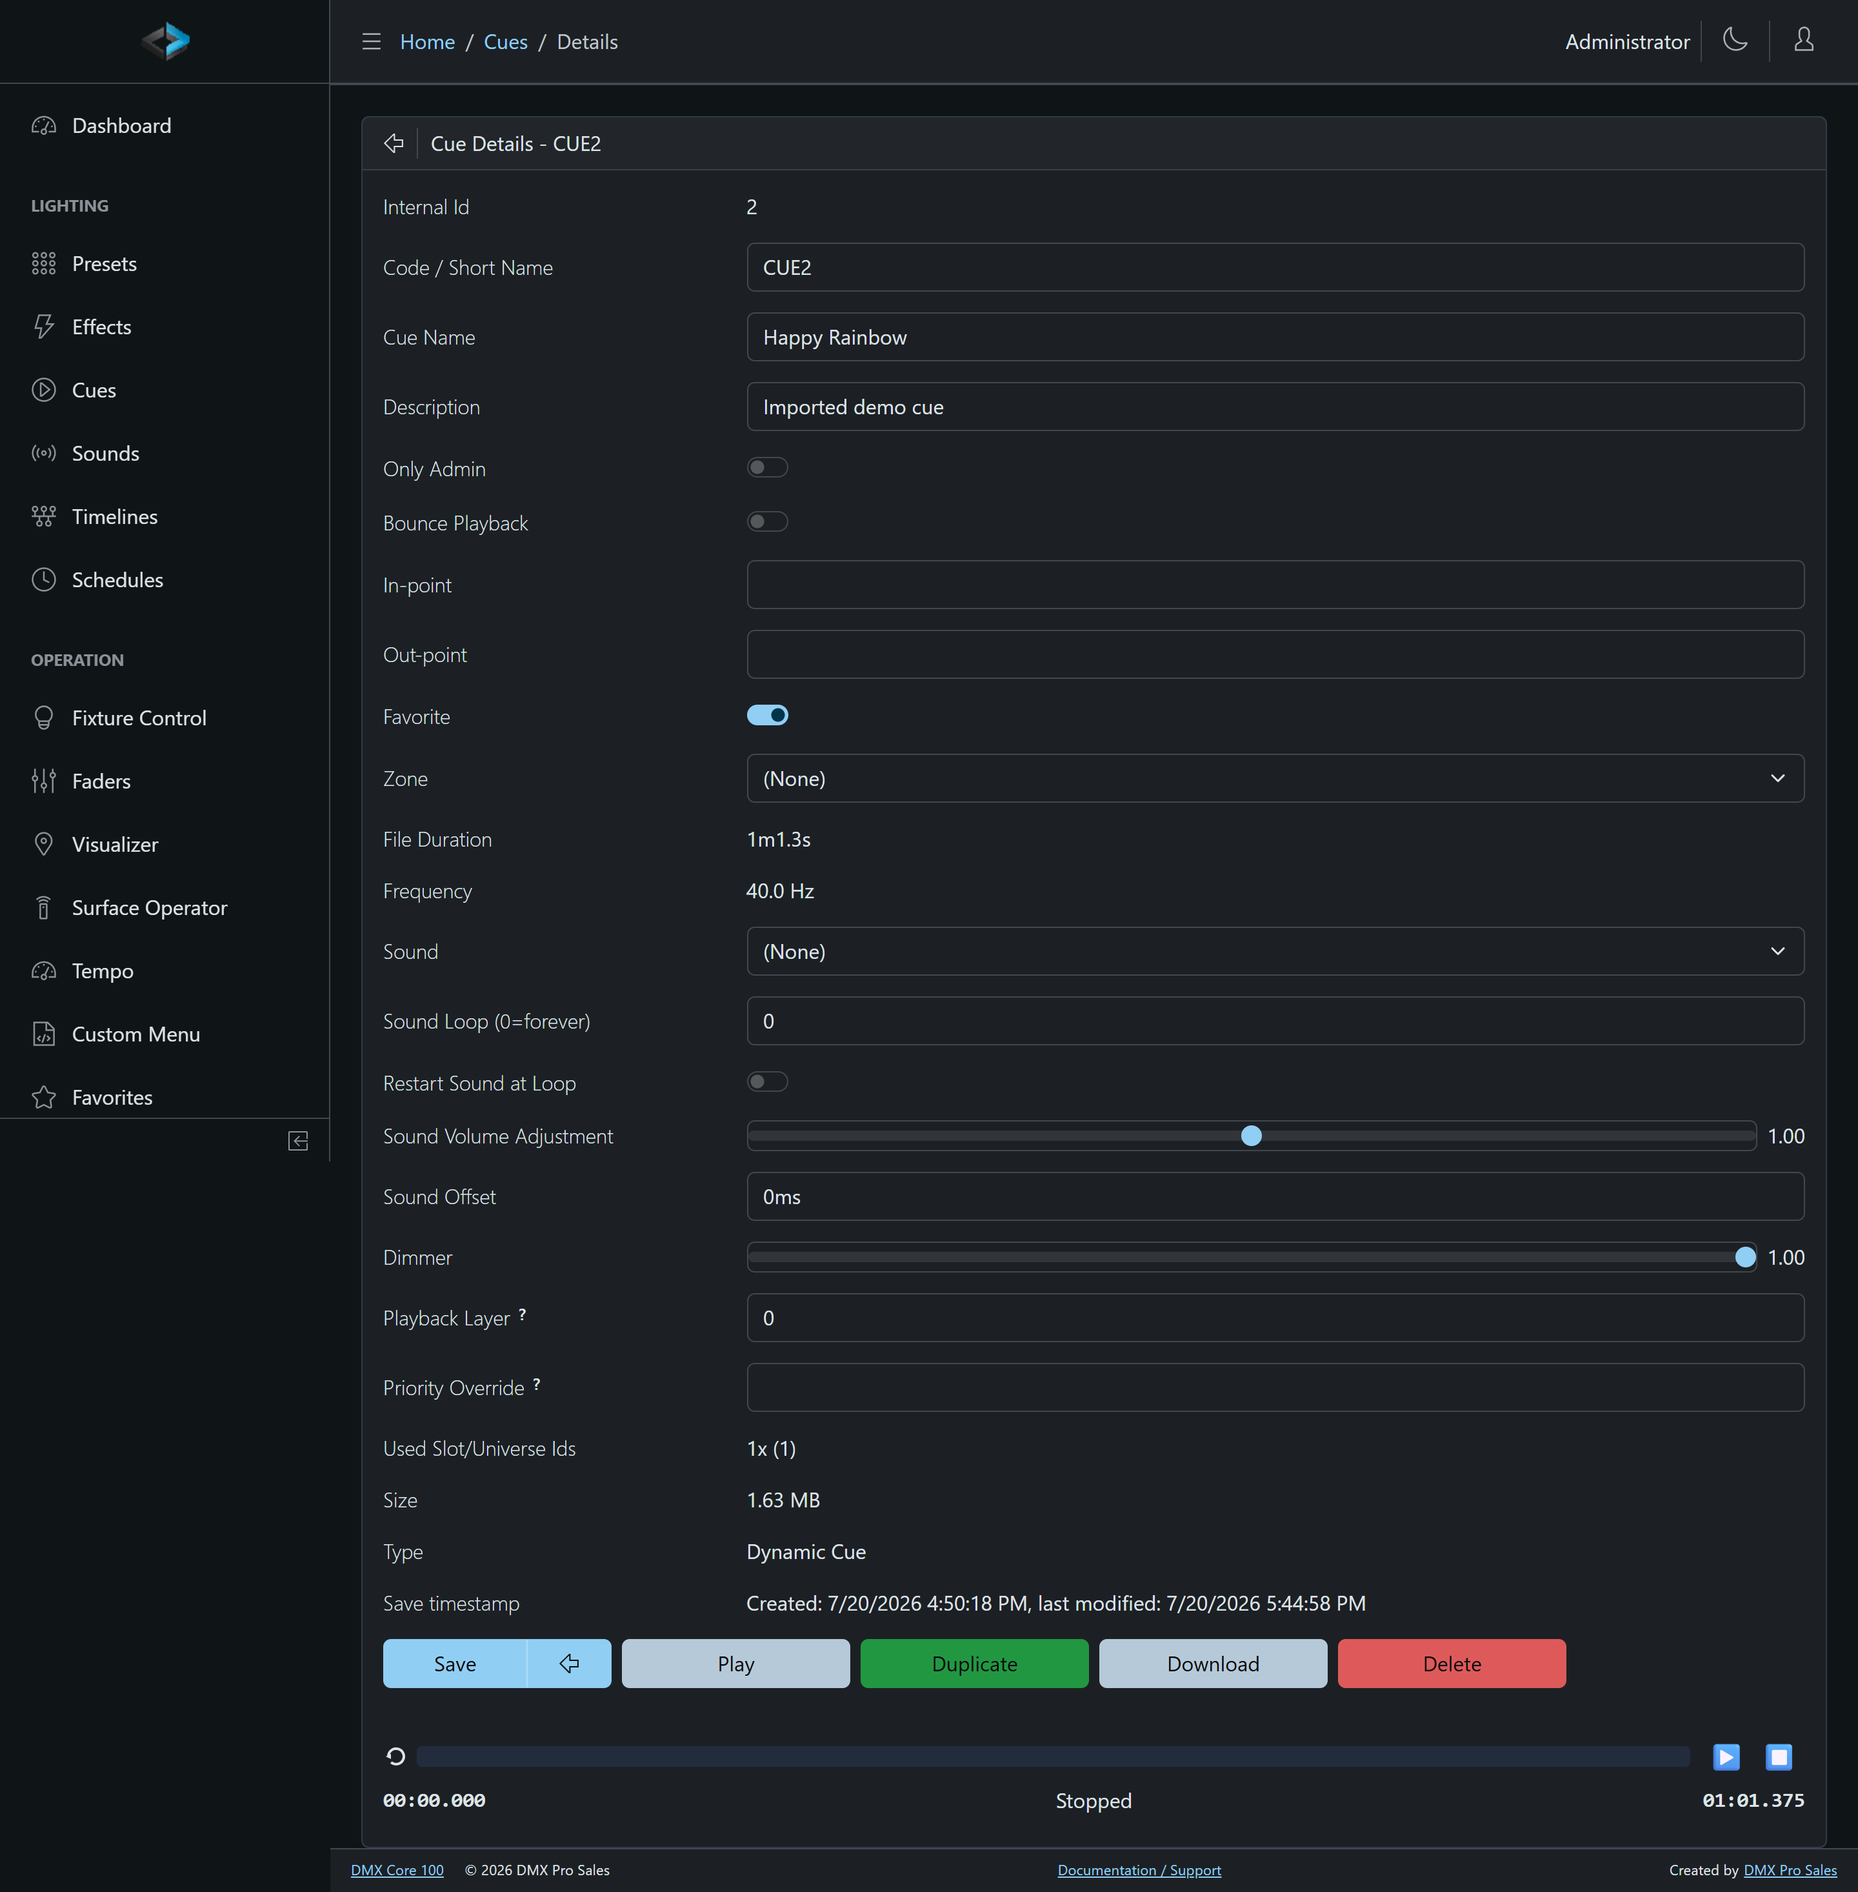
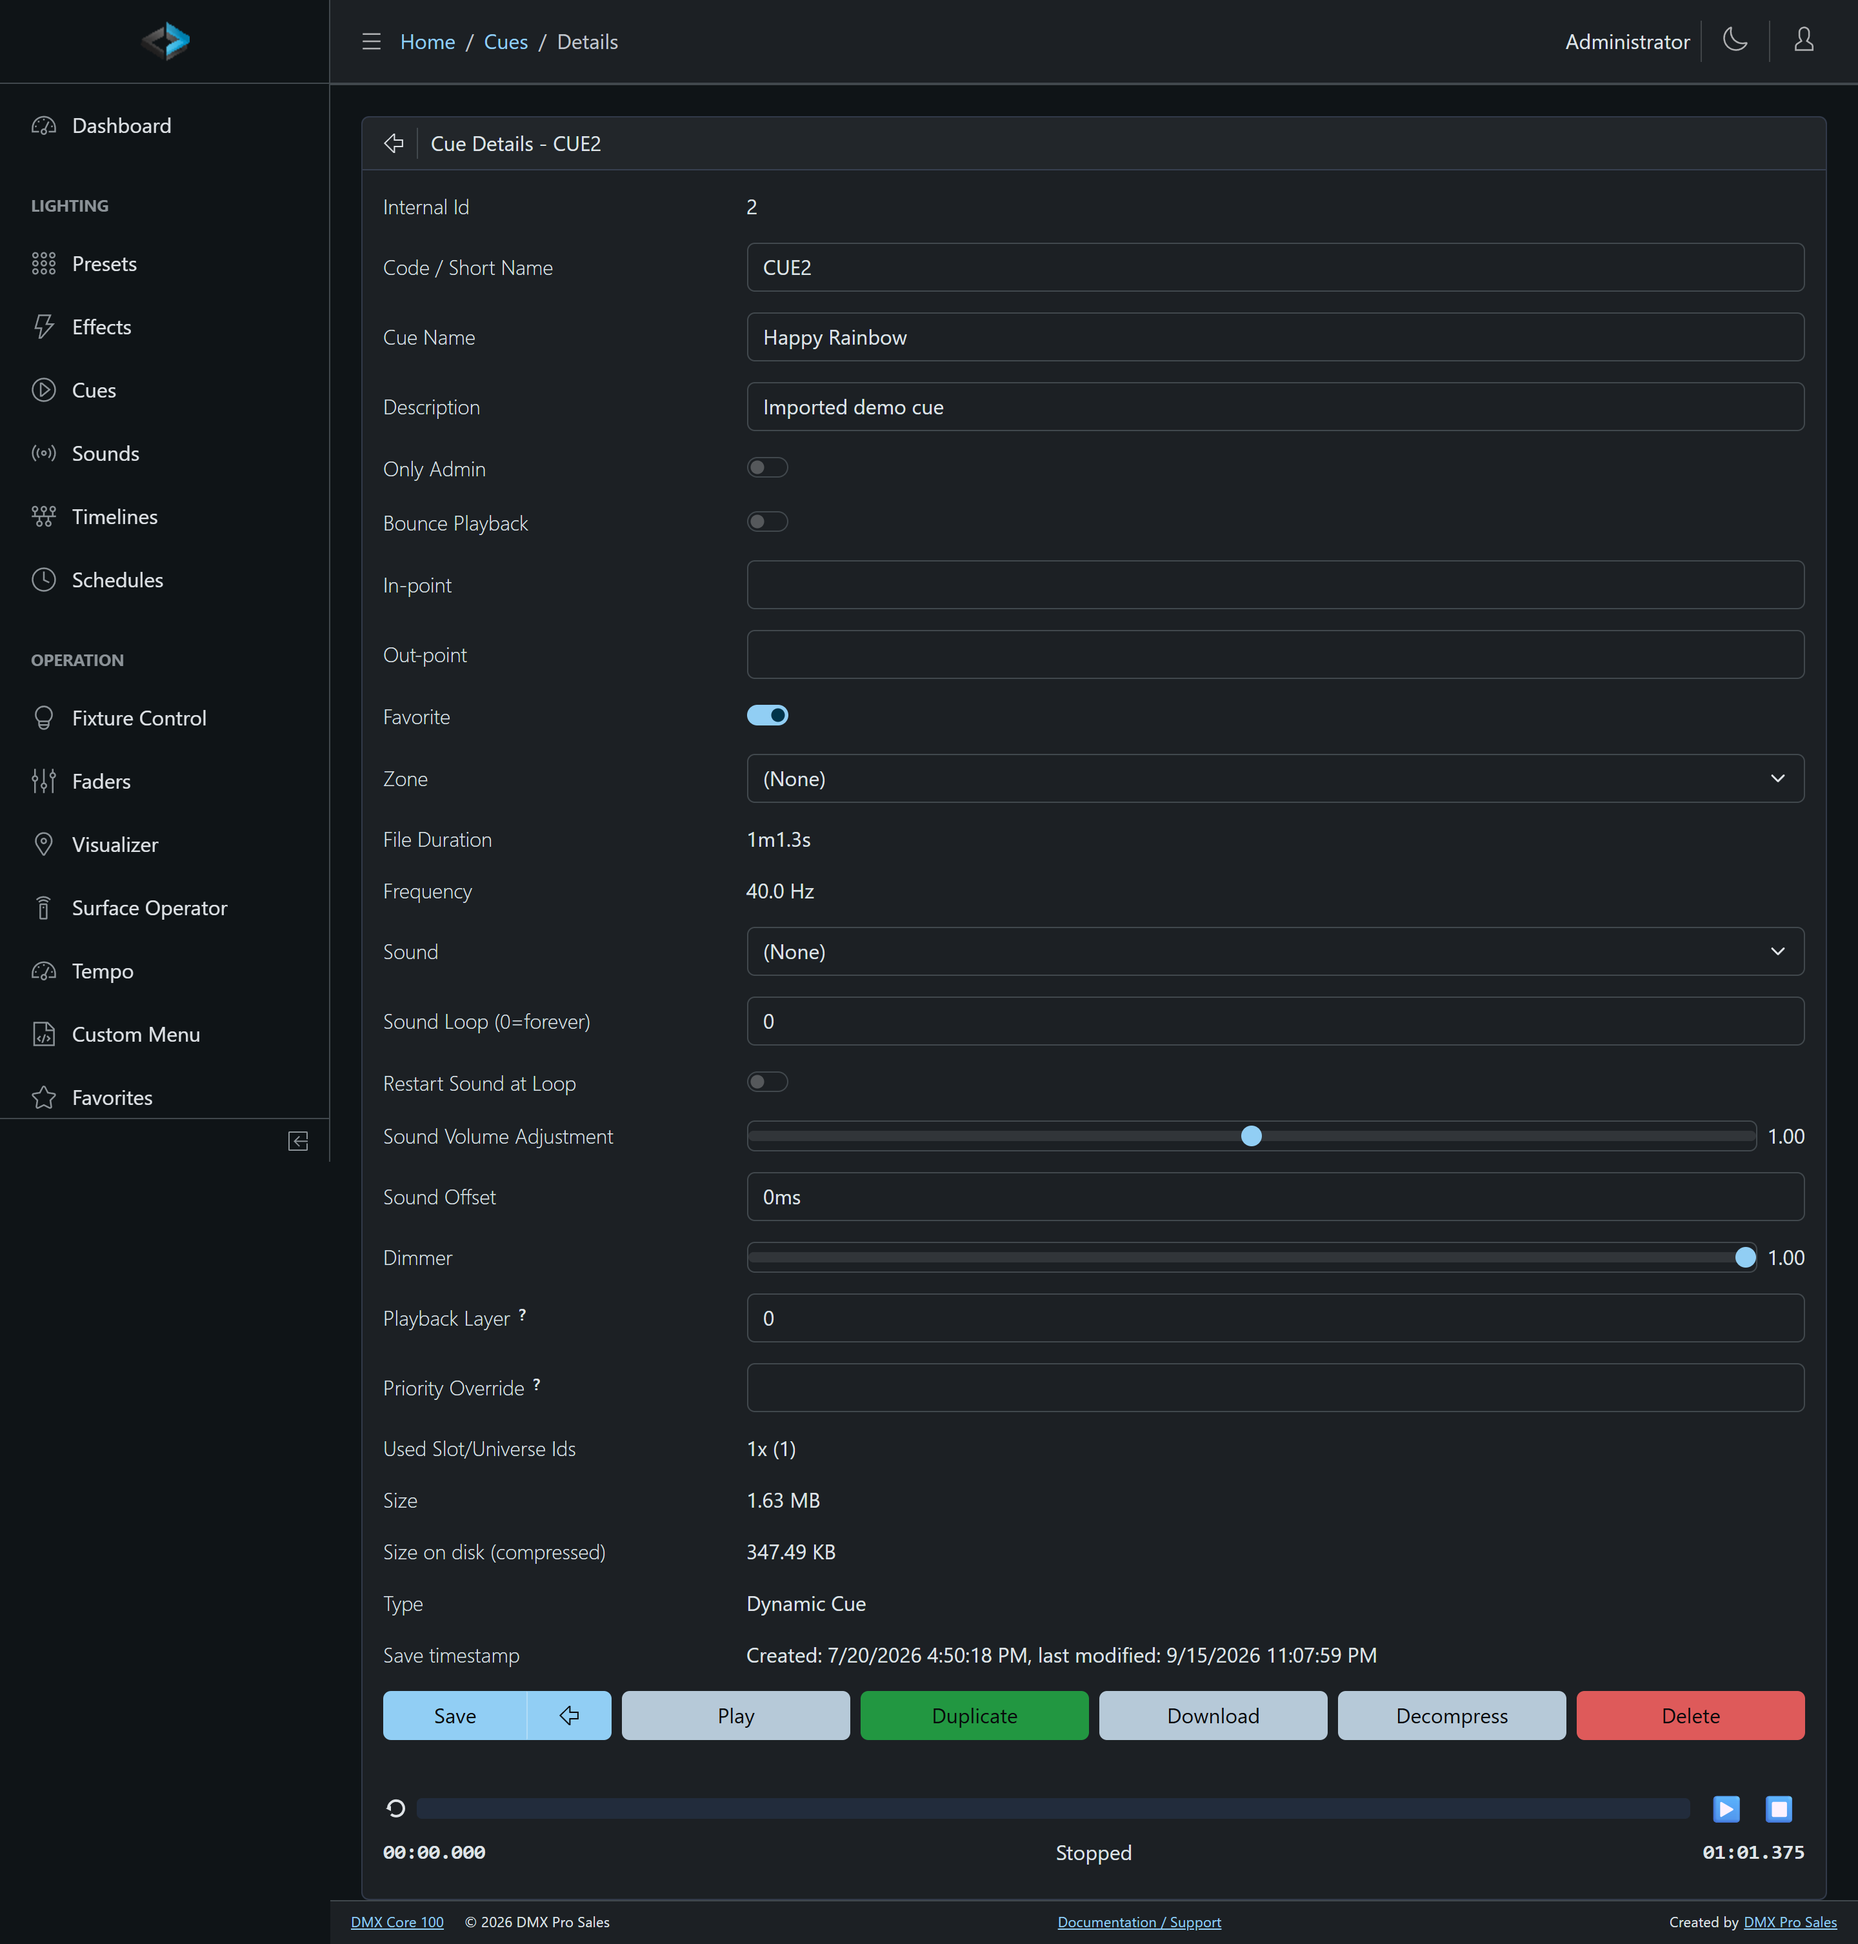
Cues: document compressed storage (Compress / Decompress, restrictions, .cap.zst downloads) with a release note and screenshots.

diff --git a/src/content/docs/dmx-core-100/playback/cues.md b/src/content/docs/dmx-core-100/playback/cues.md
@@ -81,8 +81,26 @@ During playback, the **Web UI** shows a progress bar with **pause/resume**, **sc
 
 In the **Web UI**, duplicate a cue to create a copy with the same DMX data but a new name and code — useful for variations with different dimmer, in/out points, or layer settings. Fade and loop still come from the list **Default Settings**.
 
+## Compressed Storage
+
+:::tip[Web UI only]
+Open a dynamic cue and use **Compress** to store its recording compressed on disk (zstd, typically 3–5x smaller for real show content). Playback reads the compressed file directly — in/out points, looping, bounce and every other setting work as before — and the cue page shows **Size on disk (compressed)** next to the content size. **Decompress** restores the plain file.
+:::
+
+![Compress cue confirmation](/assets/web/cue-compress-dialog.png)
+
+Before you compress, note:
+
+- **Older software cannot play compressed cues.** If the device is switched to a release without compressed-cue support, or a backup holding a compressed cue is restored on such a device, that cue stays unplayable until it is decompressed on a release that supports it.
+- **Downloads and backups contain the compressed file** (`.cap.zst`). Wireshark opens it directly; other tools need `zstd`.
+- Playback uses slightly more CPU.
+- The previous file is kept as an archive for a few days before its space is reclaimed, so free space does not drop right away. Decompressing needs free space for the full content size.
+- The cue stops if it is playing.
+
+Both actions need the **Process Cues** permission.
+
 ## Technical Details
 
-Cues are stored as Wireshark PCAP files internally and can be either ArtNet or sACN. They are automatically converted during playback if the output protocol differs from the format used during recording.
+Cues are stored as Wireshark PCAP files internally (`.cap`, or `.cap.zst` when [stored compressed](#compressed-storage): a standard zstd file with a seek table, so `zstd -d` yields the plain PCAP and Wireshark reads it as it is) and can be either ArtNet or sACN. They are automatically converted during playback if the output protocol differs from the format used during recording.
 
 The `code` field is used in API trigger events and external control protocols. Codes must be unique and cannot be empty. Non-admin users can rename and delete cues they created within 24 hours of creation.

diff --git a/src/content/docs/dmx-core-100/release-notes.md b/src/content/docs/dmx-core-100/release-notes.md
@@ -5,6 +5,7 @@ description: Release notes and highlights
 
 | Version | Date | Highlights |
 |---------|------|------------|
+| v2026.916.x | 9/16/2026 | [Cues](/dmx-core-100/playback/cues#compressed-storage) can be stored **compressed** on disk: **Compress** on a cue's page shrinks a real recording 3–5x and plays it back in place, with in/out points, looping and bounce unchanged; **Decompress** restores the plain file. Downloads and backups then carry the `.cap.zst`, which Wireshark opens directly. Older releases cannot play compressed cues |
 | v2026.910.x | 9/10/2026 | [Stream Routing](/dmx-core-100/lighting/stream-routing) routes **several input protocols at once**: every row of the input mapping now names its own protocol, so a console on sACN, one on Art-Net and a DMX-512 port can all be routed at the same time. The device-level input protocol becomes the **Recording protocol** — a recording still captures one protocol while the others keep routing — and the Inputs page refuses slot ranges shared between protocols and mappings that would close a routing loop |
 | v2026.909.x | 9/9/2026 | [Stream Routing](/dmx-core-100/lighting/stream-routing): DMX received on sACN, Art-Net or a DMX-512 port goes straight back out on every output mapped to the same slot id — including Govee, LIFX, WiZ and Shelly plugin outputs — merged by priority with the DMX Core 100's own cues and presets. New **Lighting Setup > Inputs** page (input protocol, mapping, the **Route input to outputs** switch and a live sources table) and **Settings > Inputs** on the touchscreen; outputs that would loop show **Routing Conflict**; a console keeps streaming through Stop, is masked by Blackout and parked by Output Off |
 | v2026.909.x | 9/9/2026 | 2-port DMX-512 board, firmware 501: [End of Data](/dmx-core-100/playback/layers-and-priority#end-of-data) **Stop output** now stops the individual port, Output Off no longer drops a port that is being used as an input, and the board keeps up with sustained 40 fps host streams. The board's [Passthru Function](/dmx-core-100/lighting/passthrough) is now also under Lighting Setup > Protocol in the Web UI, and both UIs only offer it when the 2-port board is fitted |
